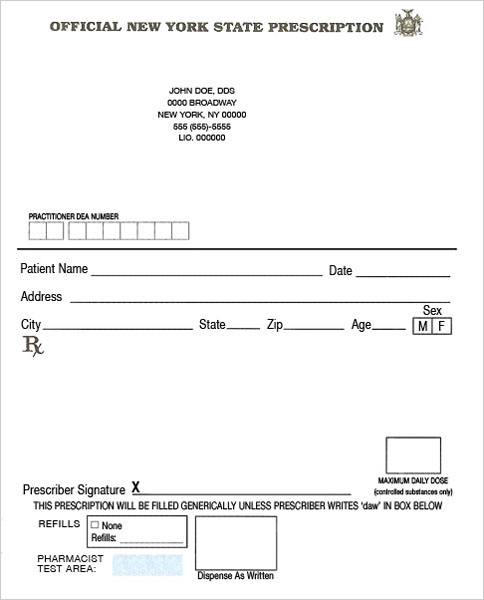
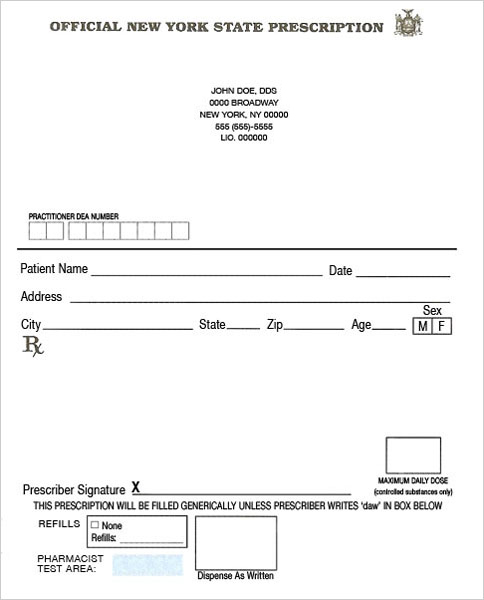
skinning prescriotion activity
git-svn-id: http://svn.ccnmtl.columbia.edu/tobaccocessation/trunk@17780 1f418930-7ff8-0310-b8ad-c653122473bc

Changed region(s): [[0.3099, 0.12, 0.5888, 0.24]]

diff --git a/activity_prescription_writing/media/css/prescription.css b/activity_prescription_writing/media/css/prescription.css
@@ -6,7 +6,7 @@
    padding: 5px;
    width: 220px;
    position: relative;
-   margin-left: 700px;
+   margin-left: 475px;
 }
 
 .correct_answer {
@@ -30,61 +30,62 @@
 }
 
 #blankrx {
-   height: 260px;
-   background-image: url(/activity/prescription/media/images/blankrx.jpg);
+   height: 209px;
+   background-image: url(/activity/prescription/media/images/blankrx_sm.jpg);
    background-repeat: no-repeat;
    background-position: top left;
-   padding: 340px 0 0 55px;
+   padding: 256px 0 0 55px;
    
 }
 
 #dosage, #disp, #sig {
 
-	margin: 2px;
+	margin-bottom: 3px;
 }
 
 
 
 #refills {
-   margin: 50px 0px 0 76px; 
-   width: 45px; 
+   margin: 37px 0 0 47px; 
+   width: 40px; 
    text-align: right;
 }
 
 #feedback {
 
 	display:block;
-	height:260px;
-	margin:-542px 0 0 -255px;
-	padding: 340px 0 0 0px;
+	height:209px;
+	margin: -414px 0 0 -55px;
+	padding: 256px 0 0 0px;
+	
 
 }
 
 #dosage_correct {
    position: relative;
    width: 185px;
-   margin: 3px 0 2px 420px;
+   margin: 0px 0 2px 215px;
 
 }
 
 #disp_correct {
    position: relative;  
    width: 185px;
-    margin: 8px 0 2px 420px;
+    margin: 6px 0 2px 215px;
 
 }
 
 #sig_correct {
    position: relative;  
    width: 185px; 
-    margin: 8px 0 2px 456px;
+    margin: 6px 0 2px 274px;
 
 }
 
 #refills_correct {
    position: relative;  
-   width: 70px; 
-    margin: 65px 0 2px 394px;
+   width: 64px; 
+    margin: 30px 0 2px 157px;
 
 }
 

diff --git a/media/css/main.css b/media/css/main.css
@@ -1012,10 +1012,20 @@ float: left;
 #content .content-nav
 {
    height: 1.5em;
-   margin: 2em 0 0 0;
+   margin: .7em 0 0 0;
    padding: 0.5em;
    border: 0;
    background-color: #dadada;
+}
+
+#content .content-nav a
+{
+	background: #ca812e url('../img/bottom_button_bg.jpg') repeat-x;
+	padding: 3px 7px;
+	text-decoration: none;
+	color: #333;
+	font-size: 90%;
+	margin-top: -3px;
 }
 
 #content .content-nav a#previous
@@ -1023,7 +1033,6 @@ float: left;
    display: block;
    float: left;
    width: auto;
-   line-height: 1.5em;
 }
 
 #content .content-nav a#next
@@ -1031,7 +1040,6 @@ float: left;
    display: block;
    float: right;
    width: auto;
-   line-height: 1.5em;
    text-align: right;
 }
 

diff --git a/templates/activity_prescription_writing/prescription.html b/templates/activity_prescription_writing/prescription.html
@@ -13,7 +13,7 @@
 	 <div id="blankrx">
 	    <input id="dosage" name='dosage' type='text' {% if block.show_correct %} readonly="readonly" {% endif %}></input><br />
        <input id="disp" type="text" {% if block.show_correct %} readonly="readonly" {% endif %}></input><br />
-       <textarea rows="4" cols="22" id="sig" {% if block.show_correct %} readonly="readonly" {% endif %}>{{sig}}</textarea><br />
+       <textarea cols="25" id="sig" {% if block.show_correct %} readonly="readonly" {% endif %}>{{sig}}</textarea><br />
        <input id="refills" type="text" maxlength="1" {% if block.show_correct %} readonly="readonly" {% endif %}></input><br />
        
        {% if block.show_correct %}
